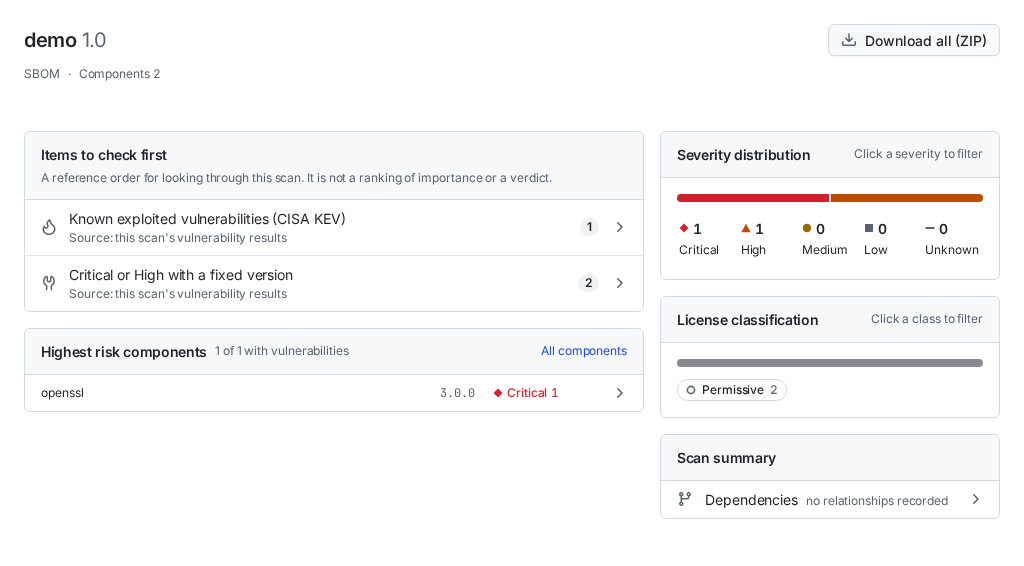
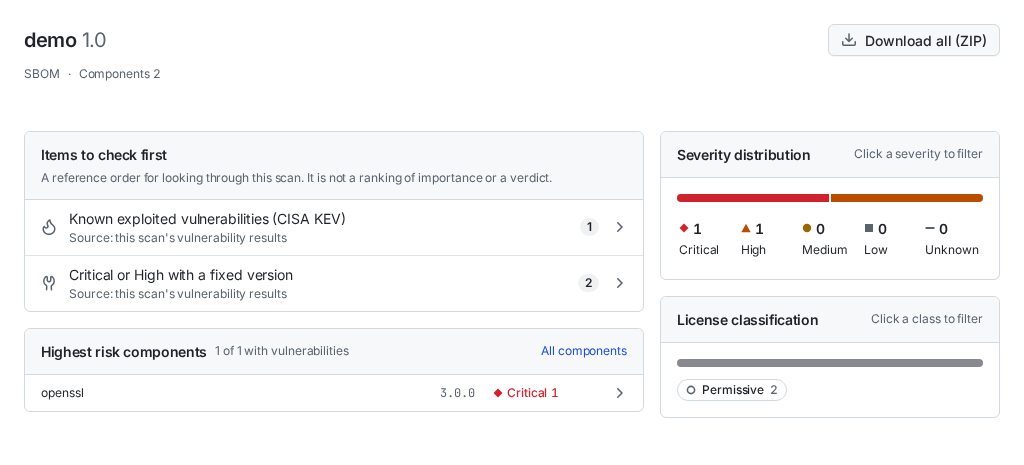
docs(images): show the dependency counts in the guide screenshots (#1055)
* docs(images): give the guide scan its dependency counts so the Overview shows them

* docs(images): recapture the guide screenshots with the dependency counts

diff --git a/docker/web/frontend/tests/ui/capture.spec.ts b/docker/web/frontend/tests/ui/capture.spec.ts
@@ -181,6 +181,10 @@ const DONE = {
   conformance: null,
   sbom: {
     components: 2,
+    // The relationships in SBOM below: one direct, one transitive. Without the
+    // counts the Overview says no relationship was recorded.
+    directCount: 1,
+    transitiveCount: 1,
     componentList: [
       { name: "openssl", version: "3.0.0", group: "", purl: "pkg:github/openssl/openssl", type: "library", licenses: ["Apache-2.0"], scope: "direct", maxSeverity: "CRITICAL", vulnCount: 1 },
       { name: "zlib", version: "1.2.0", group: "", purl: "pkg:github/madler/zlib", type: "library", licenses: ["Zlib"], scope: "transitive" },
